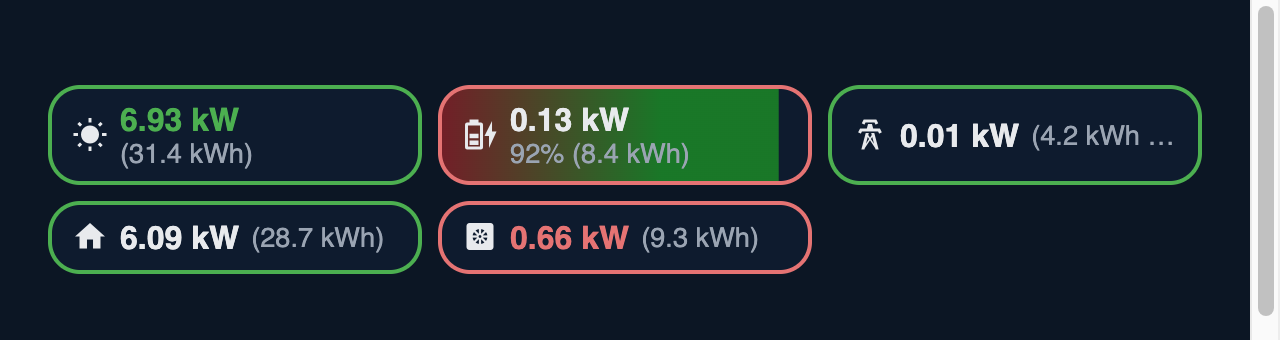
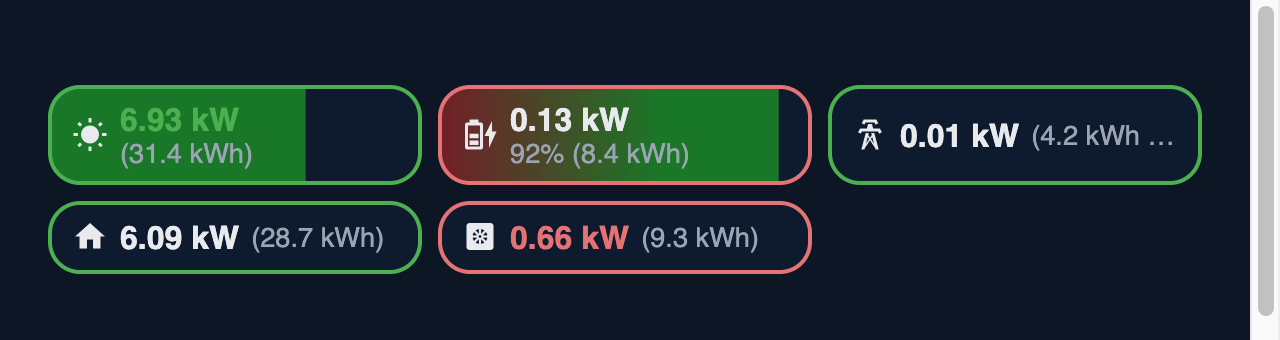
Solar peak_kw: fill the pill green by output as a share of peak capacity

Changed region(s): [[0.0312, 0.2647, 0.25, 0.5294]]

diff --git a/slim-energy-card.js b/slim-energy-card.js
@@ -130,6 +130,11 @@ class SlimEnergyCard extends HTMLElement {
         style = ` style="background:linear-gradient(90deg,hsla(0,70%,45%,.55),hsla(${hue},70%,45%,.55) ${stop}%) no-repeat left/${p}% 100%,var(--card-background-color)"`;
       }
     }
+    if (c.type === "solar" && c.peak_kw > 0 && !isNaN(kw) && unit === "kW") {
+      // pill filled green up to the current output as a share of the peak capacity
+      const p = Math.max(0, Math.min(100, (Math.abs(kw) / c.peak_kw) * 100));
+      style = ` style="background:linear-gradient(hsla(120,70%,45%,.55),hsla(120,70%,45%,.55)) no-repeat left/${p}% 100%,var(--card-background-color)"`;
+    }
     const ic = `<span class="ic">${iconHtml(icon)}</span>`;
     return `<div class="f ${color}${c.color_value ? " cv" : ""}" data-e="${c.entity}"${style} title="${(c.name || "").replace(/"/g, "&quot;")}">${ic}<div class="t"><div class="r"><span class="v">${val}</span><span class="x">${extra}</span></div>${line2}</div></div>`;
   }
@@ -153,7 +158,7 @@ const sel = (options) => ({ select: { options, mode: "dropdown" } });
 const TYPE_OPTIONS = Object.entries(TYPES).map(([value, t]) => ({ value, label: t.label }));
 const LABELS = {
   enabled: "Show", type: "Type", name: "Name", entity: "Power entity", icon: "Icon",
-  entity_2: "Second power entity (optional, added)", daily_entity_2: "Second daily energy entity (optional, added)", soc_entity: "Battery SoC entity", soc_fill: "Fill pill by state of charge", daily_entity: "Daily energy entity", daily_line: "Details on second line", color_value: "Colour the value like the border",
+  entity_2: "Second power entity (optional, added)", daily_entity_2: "Second daily energy entity (optional, added)", soc_entity: "Battery SoC entity", soc_fill: "Fill pill by state of charge", daily_entity: "Daily energy entity", daily_line: "Details on second line", color_value: "Colour the value like the border", peak_kw: "Peak capacity (kW), fills the pill green",
   positive_color: "Border colour when value > 0", invert: "Invert sign", price_entity: "Price entity",
 };
 const bool = { boolean: {} };
@@ -163,7 +168,7 @@ const schemaFor = (type) => [
   { name: "type", selector: sel(TYPE_OPTIONS) },
   { name: "name", selector: { text: {} } },
   { name: "entity", selector: ent() },
-  ...(type === "solar" ? [{ name: "entity_2", selector: ent() }] : []),
+  ...(type === "solar" ? [{ name: "entity_2", selector: ent() }, { name: "peak_kw", selector: { number: { min: 0, step: 0.1, mode: "box", unit_of_measurement: "kW" } } }] : []),
   { name: "icon", selector: { icon: { placeholder: typeIcon(TYPES[type]) } } }, // standard icon shown as placeholder
   ...(type === "battery" ? [{ name: "soc_entity", selector: ent({ device_class: "battery" }) }, { name: "soc_fill", selector: bool }] : []),
   ...(type === "grid" ? [{ name: "price_entity", selector: ent() }] : []),
@@ -176,7 +181,7 @@ const schemaFor = (type) => [
   { name: "invert", selector: bool,
     helper: "Flip the sign first, for a sensor that reports the opposite direction (e.g. discharging as positive). Check the live value in the row header." },
 ];
-const MANAGED = ["enabled", "type", "name", "entity", "entity_2", "icon", "soc_entity", "soc_fill", "price_entity", "daily_entity", "daily_entity_2", "daily_line", "color_value", "positive_color", "invert"];
+const MANAGED = ["enabled", "type", "name", "entity", "entity_2", "icon", "soc_entity", "soc_fill", "price_entity", "daily_entity", "daily_entity_2", "daily_line", "color_value", "peak_kw", "positive_color", "invert"];
 
 class SlimEnergyCardEditor extends HTMLElement {
   _nk = 0;
@@ -298,6 +303,7 @@ class SlimEnergyCardEditor extends HTMLElement {
         if (v.invert) n.invert = true;
         if (v.daily_line) n.daily_line = true;
         if (v.color_value) n.color_value = true;
+        if (v.type === "solar" && Number(v.peak_kw) > 0) n.peak_kw = Number(v.peak_kw);
         if (v.type === "battery" && v.soc_fill) n.soc_fill = true;
         if (!v.enabled) n.enabled = false;
         entities[i] = { ...kept, ...n };

diff --git a/preview.html b/preview.html
@@ -74,7 +74,7 @@
   const show = (c) => (document.getElementById("yaml").textContent = JSON.stringify(c, null, 1));
   const config = {
     entities: [
-      { entity: "sensor.solar", type: "solar", color_value: true, entity_2: "sensor.solar2", daily_entity: "sensor.solar_day", daily_entity_2: "sensor.solar2_day", daily_line: true },
+      { entity: "sensor.solar", type: "solar", color_value: true, peak_kw: 10, entity_2: "sensor.solar2", daily_entity: "sensor.solar_day", daily_entity_2: "sensor.solar2_day", daily_line: true },
       { entity: "sensor.bat", type: "battery", soc_entity: "sensor.soc", soc_fill: true, daily_line: true, daily_entity: "sensor.bat_day" },
       { entity: "sensor.grid", type: "grid", price_entity: "sensor.price", daily_entity: "sensor.grid_day" },
       { entity: "sensor.house", type: "home", name: "House", daily_entity: "sensor.house_day" },

diff --git a/AGENTS.md b/AGENTS.md
@@ -18,6 +18,7 @@ HACS Lovelace card (`custom:slim-energy-card`). Goal: very simple, slim energy o
 - Daily value without a unit (e.g. a meter on a unit-less source) is shown as kWh.
 - `daily_line: true`: bracket parts go on a second line instead of next to the value: SoC plain, daily/price in brackets (`52% (6.1 kWh)`); saves width. Key name kept from when it only moved the daily value.
 - `color_value: true`: the power value text gets the border colour (green/red; neutral stays default).
+- Solar `peak_kw` (kW, >0): pill filled green left to right up to |output| / peak_kw (capped 100%). Needs the sum in kW (W is converted). Off when unset.
 - Battery `soc_fill: true` (needs `soc_entity`): pill background filled left to right to SoC%, gradient red to green, hue = min(120, SoC*2), so full green from 60% SoC. Off by default.
 - Solar only: `entity_2` and `daily_entity_2` (second inverter) are summed with `entity` / `daily_entity` (`_sum`, W to kW, Wh to kWh; unavailable ones skipped). Tap opens more-info of `entity`.
 - Icon per entity: any `mdi:...` (via `ha-icon`) or emoji. Defaults per type are standard MDI icons (`TYPES`): sun `mdi:white-balance-sunny`, battery `mdi:battery-charging-medium`, grid `mdi:transmission-tower`, home `mdi:home`, heat pump `bha:heat-pump` (from hulkhaugen/hass-bha-icons, used only when `window.customIconsets.bha` exists, else `mdi:heat-pump`; `typeIcon`), EV `mdi:car-electric`, other `mdi:flash`. Chosen to match what the owner had configured by hand; no coloured/embedded icons (rejected). Editor icon picker shows the type default as placeholder.
@@ -28,7 +29,7 @@ HACS Lovelace card (`custom:slim-energy-card`). Goal: very simple, slim energy o
 
 ## Config
 Card: `entities` (required). Legacy card-level `price_entity` still read as fallback.
-Entity: `type` (solar|battery|grid|home|heatpump|ev|other), `name` (tooltip/editor label), `enabled` (false = hidden), `entity`, `icon`, `soc_entity` (battery), `soc_fill` (battery), `price_entity` (grid), `daily_entity`, `daily_line`, `color_value`, `positive_color`, `invert`, `decimals` (2), `threshold` (0.005).
+Entity: `type` (solar|battery|grid|home|heatpump|ev|other), `name` (tooltip/editor label), `enabled` (false = hidden), `entity`, `icon`, `soc_entity` (battery), `soc_fill` (battery), `peak_kw` (solar), `price_entity` (grid), `daily_entity`, `daily_line`, `color_value`, `positive_color`, `invert`, `decimals` (2), `threshold` (0.005).
 
 ## Not included (add only on request)
 Status words ("Producing", "Using"), visual editor, translations, per-field click actions, auto sizing to content.

diff --git a/README.md b/README.md
@@ -35,6 +35,7 @@ entities:
     entity_2: sensor.solar2_power      # optional second inverter, summed
     daily_entity: sensor.solar_energy_today   # kWh, shown in brackets
     daily_entity_2: sensor.solar2_energy_today
+    peak_kw: 10                        # optional: pill fills green up to output / peak
   - type: battery
     entity: sensor.battery_power
     soc_entity: sensor.battery_soc     # shows (52%)
@@ -70,6 +71,7 @@ The border shows the direction of the energy, not whether it is "good":
 | `daily_entity_2` | | Solar only: second daily energy sensor, added to `daily_entity` |
 | `daily_line` | `false` | Show SoC, daily energy and price on a second line in the pill (SoC plain, daily and price in brackets) instead of next to the value |
 | `color_value` | `false` | Colour the power value green or red like the border |
+| `peak_kw` | | Solar only: peak capacity in kW (sum of both inverters). The pill is filled green from the left up to the current output as a share of it |
 | `price_entity` | | Grid only: price, shown in brackets |
 | `daily_entity` | | Daily energy sensor in kWh or Wh, shown in brackets |
 | `positive_color` | per type | Border colour when the value is above 0: `green` or `red`. Solar, home, other: green. Battery, grid, heat pump, EV: red. The opposite colour is used below 0. |
